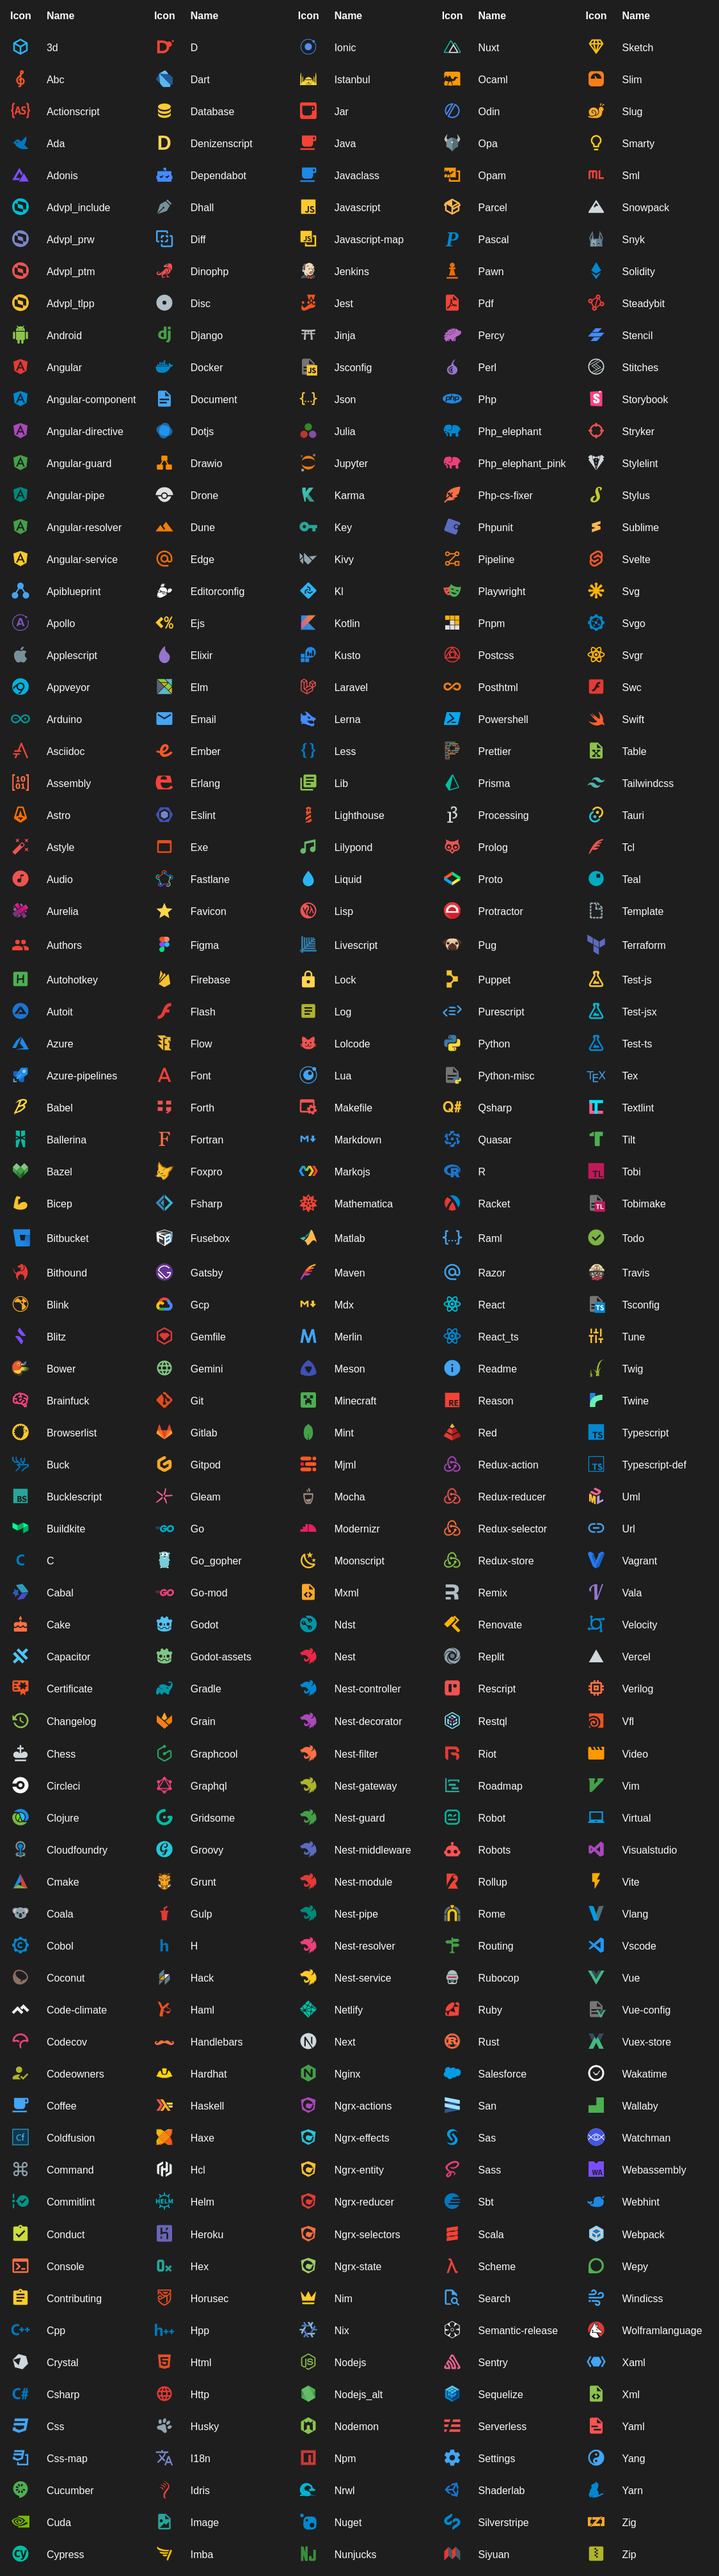
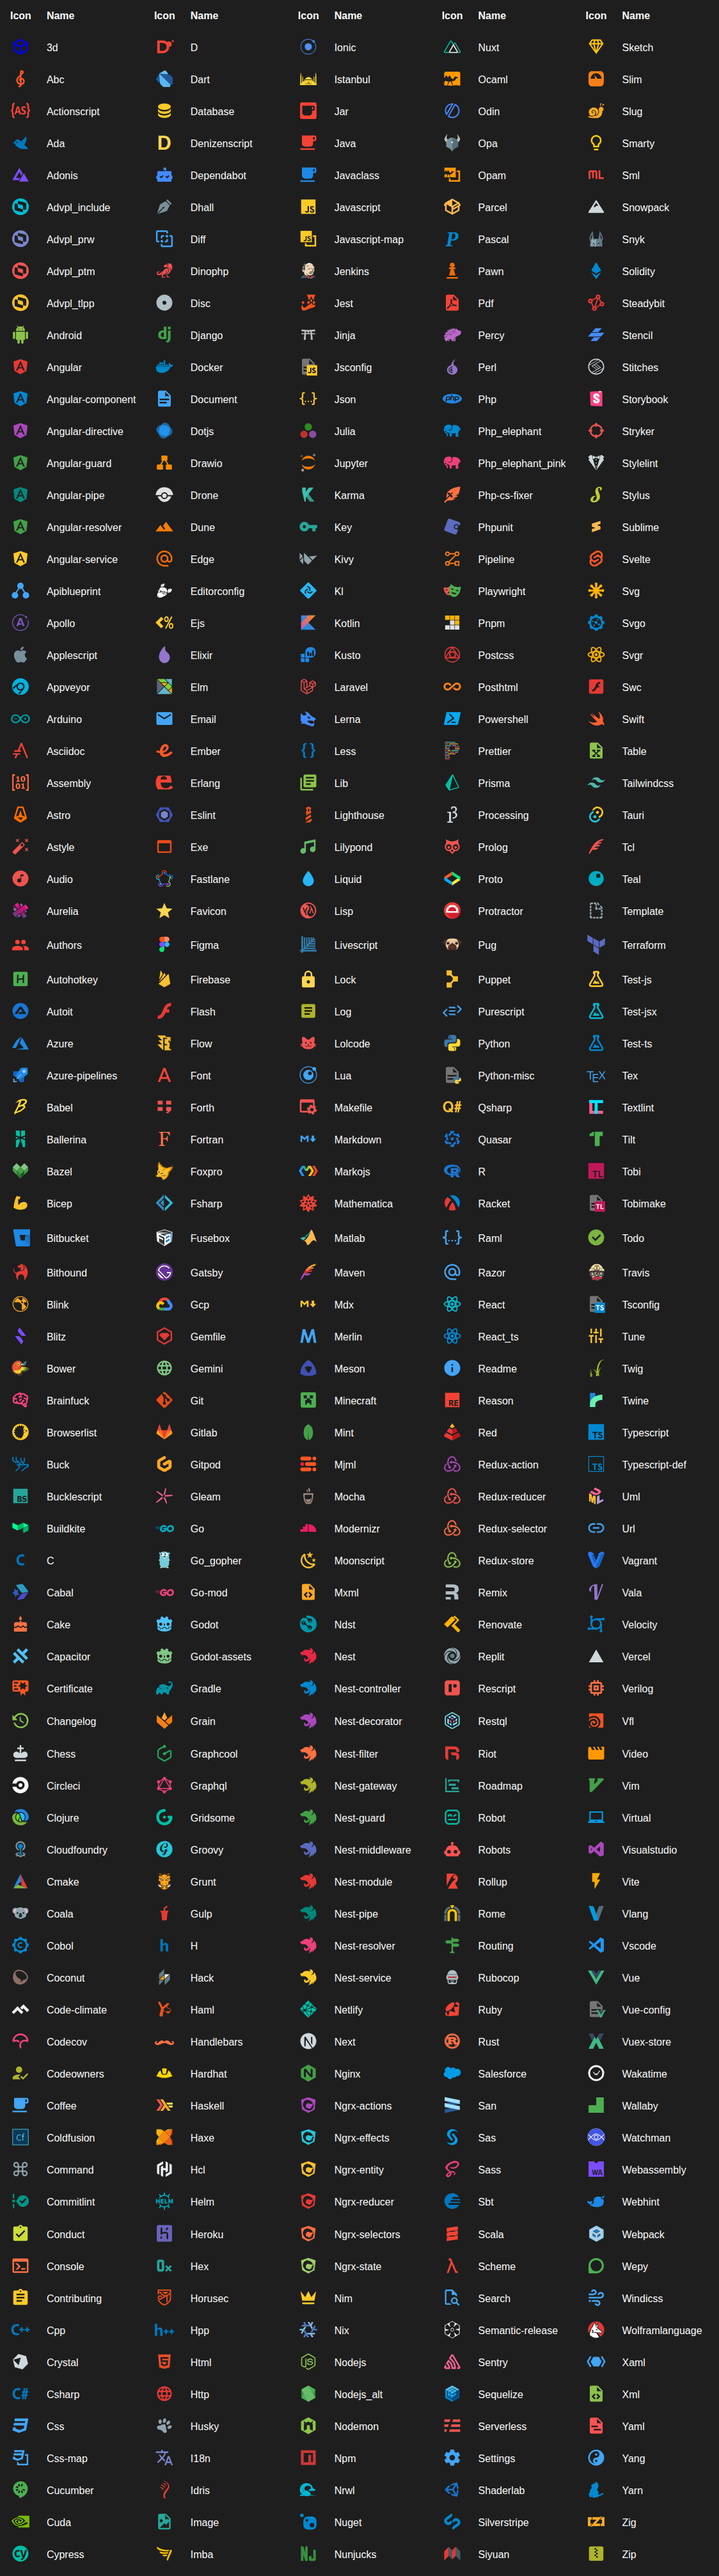
Release 6.0.0

diff --git a/CHANGELOG.md b/CHANGELOG.md
@@ -3,6 +3,33 @@
  All notable changes to this project will be documented in this file. Dates are displayed in UTC.
 
  
+#### [v6.0.0](https://github.com/Rajeshwaran2001/developer-theme-dark/compare/v5.0.0...v6.0.0) 
+
+> September 15, 2026 
+
+- Update svg-color-linter command to specify version and config [`2dd293c`](https://github.com/Rajeshwaran2001/developer-theme-dark/commit/2dd293c)
+- Remove developer-icons assets and related files [`4c7a866`](https://github.com/Rajeshwaran2001/developer-theme-dark/commit/4c7a866)
+- Refactor template and configuration files [`b8f0199`](https://github.com/Rajeshwaran2001/developer-theme-dark/commit/b8f0199)
+- Add Discord community link to README [`3f60a24`](https://github.com/Rajeshwaran2001/developer-theme-dark/commit/3f60a24)
+- Update Puppeteer launch options for screenshots [`521844e`](https://github.com/Rajeshwaran2001/developer-theme-dark/commit/521844e)
+- package lock updated [`b368b32`](https://github.com/Rajeshwaran2001/developer-theme-dark/commit/b368b32)
+- Update Node.js version and setup action in workflow [`0d97e9f`](https://github.com/Rajeshwaran2001/developer-theme-dark/commit/0d97e9f)
+- Upgrade actions/cache from v2 to v4 [`0d26181`](https://github.com/Rajeshwaran2001/developer-theme-dark/commit/0d26181)
+- add my alt theme [`5a558bd`](https://github.com/Rajeshwaran2001/developer-theme-dark/commit/5a558bd)
+- remove invalid entry [`953ca10`](https://github.com/Rajeshwaran2001/developer-theme-dark/commit/953ca10)
+- add my alt theme [`7bad220`](https://github.com/Rajeshwaran2001/developer-theme-dark/commit/7bad220)
+- true -> explicit [`5a4eef6`](https://github.com/Rajeshwaran2001/developer-theme-dark/commit/5a4eef6)
+- fix error [`f934da0`](https://github.com/Rajeshwaran2001/developer-theme-dark/commit/f934da0)
+- Bump ws and puppeteer [`029468b`](https://github.com/Rajeshwaran2001/developer-theme-dark/commit/029468b)
+- Bump braces from 3.0.2 to 3.0.3 [`a50a943`](https://github.com/Rajeshwaran2001/developer-theme-dark/commit/a50a943)
+- Update fileIcons.ts [`bdfbe1e`](https://github.com/Rajeshwaran2001/developer-theme-dark/commit/bdfbe1e)
+- Update fileIcons.ts [`827ef7d`](https://github.com/Rajeshwaran2001/developer-theme-dark/commit/827ef7d)
+- Bump word-wrap from 1.2.3 to 1.2.4 [`7ea0a70`](https://github.com/Rajeshwaran2001/developer-theme-dark/commit/7ea0a70)
+- Bump webpack from 5.70.0 to 5.76.1 [`83ee5f9`](https://github.com/Rajeshwaran2001/developer-theme-dark/commit/83ee5f9)
+- Pull request update 3d.svg [`e41f414`](https://github.com/Rajeshwaran2001/developer-theme-dark/commit/e41f414)
+- Update README.md [`aa93f99`](https://github.com/Rajeshwaran2001/developer-theme-dark/commit/aa93f99)
+- Update README.md [`c062e90`](https://github.com/Rajeshwaran2001/developer-theme-dark/commit/c062e90)
+ 
 #### [v5.0.0](https://github.com/Rajeshwaran2001/developer-theme-dark/compare/v4.1.0...v5.0.0) 
 
 > August 21, 2022 
